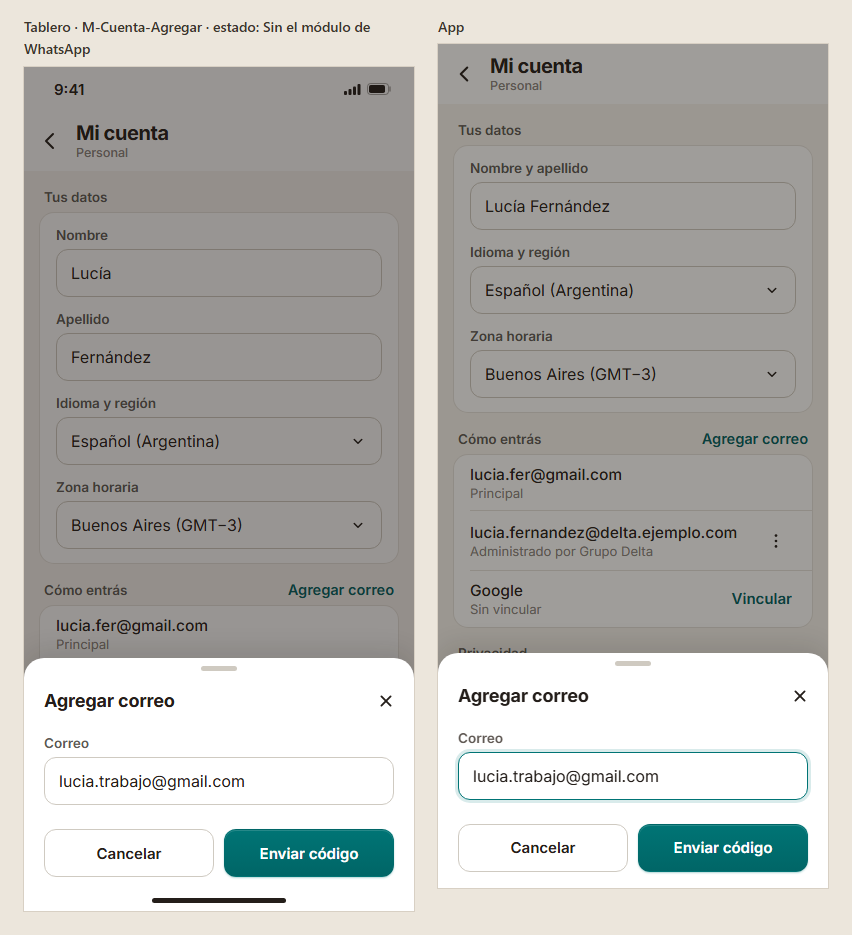
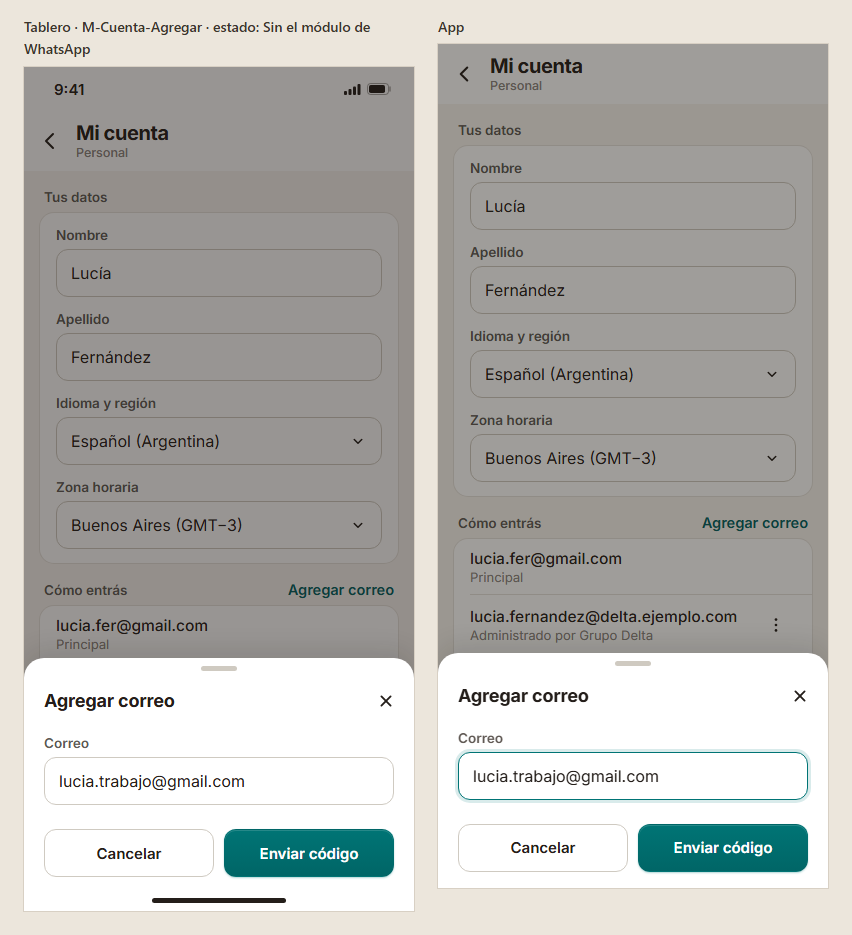
docs(pre7): registrar Cuenta y sus diálogos con A6

diff --git a/docs/design/capturas/consolidacion/pre7/README.md b/docs/design/capturas/consolidacion/pre7/README.md
@@ -25,7 +25,7 @@ Comparaciones de los cinco estados afectados, a 1440 y 390. A5 y la ADR 0045 eli
 | Quitar correo | [Comparación](cuenta/cuenta-quitar-correo-escritorio-1440x900-lado-a-lado.png) | [Comparación](cuenta/cuenta-quitar-correo-movil-390x844-lado-a-lado.png) |
 | Desvincular Google | [Comparación](cuenta/cuenta-desvincular-google-escritorio-1440x900-lado-a-lado.png) | [Comparación](cuenta/cuenta-desvincular-google-movil-390x844-lado-a-lado.png) |
 
-La referencia v112 se conserva completa: `Cuenta-Baja` y `Cuenta-Metodo` todavía dibujan el OTP que la ADR 0045 ordena retirar. La fila de Nombre/Apellido del fondo se implementa en A6 y estas comparaciones se repiten al cerrarlo. La exportación pertenece a E10, según la ficha `identidad.md` del back.
+La referencia v112 se conserva completa: `Cuenta-Baja` y `Cuenta-Metodo` todavía dibujan el OTP que la ADR 0045 ordena retirar. Las diez comparaciones se repitieron con Nombre y Apellido de A6, como se detalla abajo. La exportación pertenece a E10, según la ficha `identidad.md` del back.
 
 ## A1 · El operador probado en una puerta pública
 
@@ -58,7 +58,7 @@ Los seis estados muestran el error de campo de la v112. En ingreso y registro, e
 | Recuperar: nuevo de otra cuenta | [Comparación](recuperar/recuperar-nuevo-con-cuenta-escritorio-1440x900-lado-a-lado.png) | [Comparación](recuperar/recuperar-nuevo-con-cuenta-movil-390x844-lado-a-lado.png) |
 | Agregar correo de otra cuenta | [Comparación](cuenta/agregar-correo-otra-cuenta-escritorio-1440x900-lado-a-lado.png) | [Comparación](cuenta/agregar-correo-otra-cuenta-movil-390x844-lado-a-lado.png) |
 
-El primer capturador produjo 11/12 imágenes: la preparación de escritorio todavía buscaba «Agregar correo o teléfono». El test del catálogo reprodujo ese desacuerdo (1 fallo y 12 verdes), pasó con el nombre actual «Agregar correo» (13/13) y se repitieron las doce comparaciones en verde. Las primeras imágenes y logs se conservan en `.local/pre7/a2/capturas-primeras*`; `capturas-segundas.*` y `capturas-verificar.*` tienen EXIT 0. Después de corregir la pérdida de correo al volver de OIDC en StrictMode, se regeneraron y revisaron las doce imágenes actuales: `capturas-finales.*` y `capturas-verificar-finales.*`, ambos EXIT 0. El fondo de Mi cuenta se repite después de A6.
+El primer capturador produjo 11/12 imágenes: la preparación de escritorio todavía buscaba «Agregar correo o teléfono». El test del catálogo reprodujo ese desacuerdo (1 fallo y 12 verdes), pasó con el nombre actual «Agregar correo» (13/13) y se repitieron las doce comparaciones en verde. Las primeras imágenes y logs se conservan en `.local/pre7/a2/capturas-primeras*`; `capturas-segundas.*` y `capturas-verificar.*` tienen EXIT 0. Después de corregir la pérdida de correo al volver de OIDC en StrictMode, se regeneraron y revisaron las doce imágenes actuales: `capturas-finales.*` y `capturas-verificar-finales.*`, ambos EXIT 0. Las dos imágenes de Agregar correo se repitieron con el fondo de A6, como se detalla abajo.
 
 E2E real combinado A2, A1, A3 y reclamo del correo pendiente: cuarto intento **9/9**, 0 fallos/cancelados/omitidos, EXIT 0, **575,132 s**, `real-fourth.*`. Aspire después del real `[]`, EXIT 0. Los tres intentos fallidos se conservan; se corrigieron la cuota compartida de preparación y la pérdida de correo OIDC con su rojo/verde. El fallo intermitente de A1 del tercero no se reprodujo en cuatro diagnósticos ni en el cuarto combinado; no se atribuye una corrección causal. Detalle y conteos en el plan de arreglos del back.
 
@@ -80,6 +80,27 @@ node scripts/recorrido-lienzo/vivo.mjs consolidacion/pre7/agregar-correo-otra-cu
 ```
 
 Las capturas visuales usan las respuestas de prueba del capturador existente para reproducir estados. El E2E real usa front, API, PostgreSQL y pickup reales, sin interceptar peticiones ni simular sesiones.
+
+## A6 · Nombre y apellido separados
+
+Cuenta usa cuatro columnas iguales en escritorio —Nombre, Apellido, Idioma y región, Zona horaria— y los campos verticales en el teléfono. El tablero y los datos visuales de la app muestran Lucía y Fernández. Las demás lecturas conservan el `DisplayName` armado por el backend.
+
+| Estado | 1440 | 390 |
+|---|---|---|
+| Mi cuenta | [Comparación](cuenta/cuenta-escritorio-1440x900-lado-a-lado.png) | [Comparación](cuenta/cuenta-movil-390x844-lado-a-lado.png) |
+
+Se repitieron también las diez imágenes de A5 y las dos de Agregar correo de otra cuenta (A2). Se conservan los límites de WhatsApp (Etapa 8), exportación (Etapa 10) y la excepción explícita del OTP antiguo que retira A5/ADR0045, sin cambiar el lienzo. Las catorce imágenes se inspeccionaron y enviaron al usuario con sus comandos de vivo.
+
+Evidencia FRONT `.local/pre7/a6/`: `root-capturas-cuenta-a2.*` **4/4**, EXIT 0, 13,021 s; `root-capturas-a5.*` **10/10**, EXIT 0, 30,079 s; `root-capturas-verificar.*` **14/14**, EXIT 0. Los capturadores terminaron antes del E2E real. La galería reúne ahora 32 comparaciones de 16 estados.
+
+E2E real A6 y regresiones A5/idioma: **6/6**, 0 fallos/cancelados/omitidos, EXIT 0, **168,077 s**, FRONT `.local/pre7/a6/real.*`. En ambos tamaños, cuatro combinaciones de nombre y apellido se guardan por sus partes, persisten tras F5 y aparecen como `DisplayName` o el contacto de respaldo en el menú. Las acciones de cuenta y el cambio de idioma siguen pasando con front/API/PostgreSQL/pickup reales. Front dirigido final **34/34** en seis archivos, EXIT 0, 13,70 s; build, lint dirigido y contrato EXIT 0. Backend dirigido **77/77**, unitarios **59/59** y arquitectura **45/45**; build AppHost sin advertencias ni errores. Evidencia y alcance completos en el plan del back.
+
+Implementación BACK `de85e34` (27 rutas propias), FRONT `77a4039` (16), `main`, sin push. Aspire después del recorrido `[]`, EXIT 0 (`aspire-after.*` BACK). La migración e importación de nombres de Google siguen usando la base de A7 (`b3ffa40`), sin una segunda migración.
+
+```powershell
+node scripts/recorrido-lienzo/vivo.mjs consolidacion/pre7/cuenta-escritorio --vite http://127.0.0.1:5191
+node scripts/recorrido-lienzo/vivo.mjs consolidacion/pre7/cuenta-movil --vite http://127.0.0.1:5191
+```
 
 Desde la raíz del front:
 
